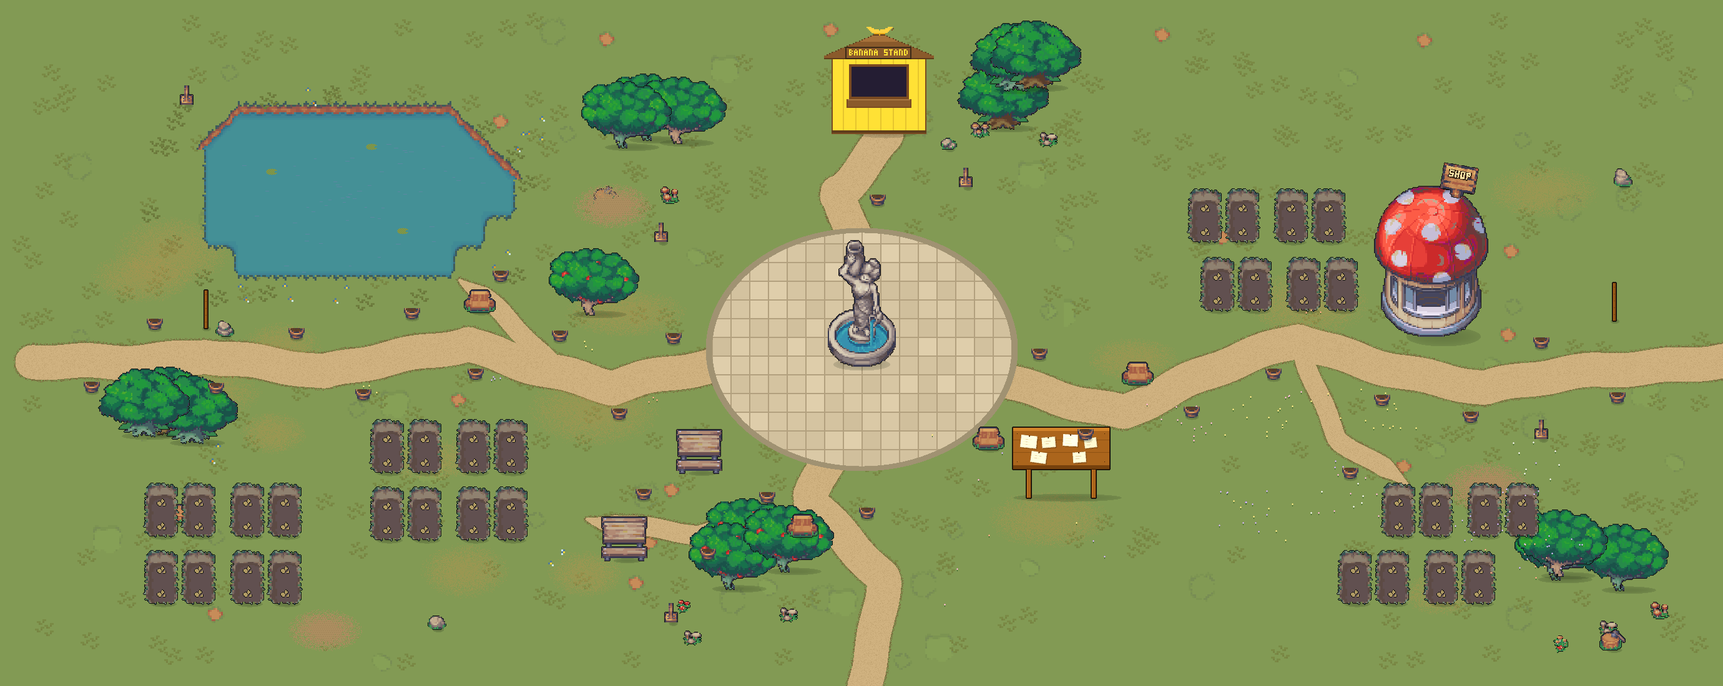
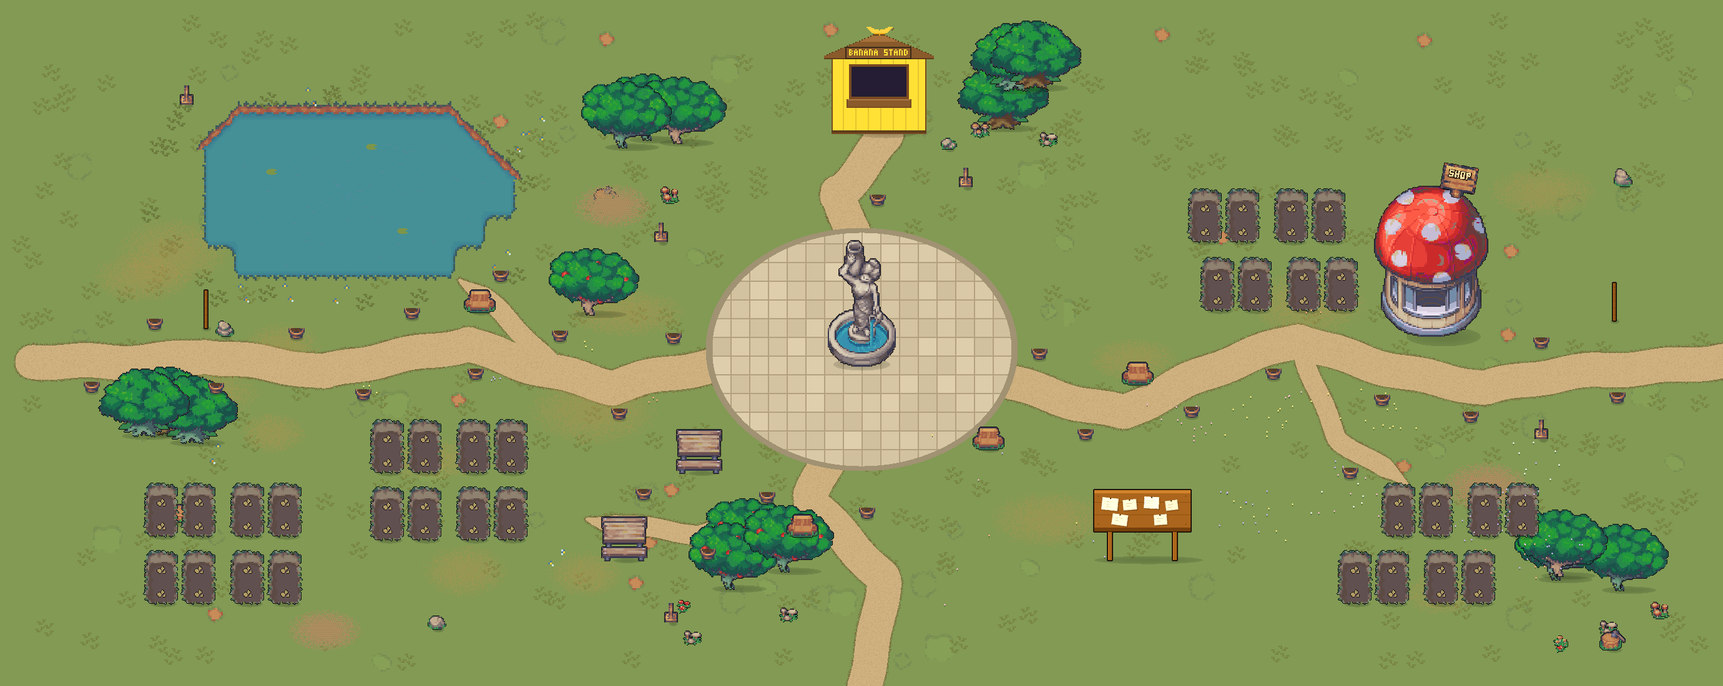
The board in the park is a board now too, and it stands on its own
We built the wall for /supporters/ and never brought it back into the
park, so tapping the board showed a list of names on a card that happened
to be about a board. The wall is a shared component now (.bb-wall in
plaques.css, worn by both) with a --sm variant for the popup: the same
timber, the same battens and screws, a closer crop.

The list is capped at five, best metal first, so what you see without
scrolling is the top of the ladder -- and everybody now gets a route to
the whole thing. A member used to get a door to their own membership and
no way from the park to the wall they are on.

⚠ Getting it to FIT took three attempts and the first two were wrong:
- capping the wall's height left the CARD scrolling as well, so the way
  out sat below the fold on a 740px phone
- making the card a flex column does not fix that either, because the
  card's flex child is #pkSupBody, not the wall
So the wall does not scroll at all: the card is the one scroller, the
list is short, the count merged into the link (the number is the better
half of "5 more" + "see the whole board"), and a max-HEIGHT query trims
the spotlight on short phones. Measured: nothing scrolls at 360x740 or
393x850, and the link is on screen at both.

The board itself moves south-east, 247 right and 178 down from Old Peel's
bench instead of 117 and 78 -- it was leaning on him.

Changed region(s): [[0.5609, 0.6182, 0.7167, 0.8345]]

diff --git a/src/scripts/park-geo.js b/src/scripts/park-geo.js
@@ -10,7 +10,7 @@ export const MARKET = { stand: [1408, 215], cart: [2300, 545] };
 export const SIGNS = [];
 export const ROAD_SIGN = { x: 2586, y: 516 };
 export const ROAD_SIGN_W = { x: 330, y: 528 };
-export const SUP_BOARD = { x: 1700, y: 800 };
+export const SUP_BOARD = { x: 1830, y: 900 };
 export const OLDBENCH = [1583, 722];
 export const MEADOW = [1860, 640, 2500, 940];
 export const PLOTS = [[2240, 800], [2240, 838], [2300, 800], [2300, 838], [2378, 800], [2378, 838], [2438, 800], [2438, 838], [258, 800], [258, 838], [318, 800], [318, 838], [396, 800], [396, 838], [456, 800], [456, 838], [1950, 438], [1950, 476], [2010, 438], [2010, 476], [2088, 438], [2088, 476], [2148, 438], [2148, 476], [2170, 908], [2170, 946], [2230, 908], [2230, 946], [2308, 908], [2308, 946], [2368, 908], [2368, 946], [258, 908], [258, 946], [318, 908], [318, 946], [396, 908], [396, 946], [456, 908], [456, 946], [1930, 328], [1930, 366], [1990, 328], [1990, 366], [2068, 328], [2068, 366], [2128, 328], [2128, 366], [620, 698], [620, 736], [680, 698], [680, 736], [758, 698], [758, 736], [818, 698], [818, 736], [620, 806], [620, 844], [680, 806], [680, 844], [758, 806], [758, 844], [818, 806], [818, 844], [1790, 170], [1790, 208], [1850, 170], [1850, 208], [1928, 170], [1928, 208], [1988, 170], [1988, 208], [2110, 170], [2110, 208], [2170, 170], [2170, 208], [2248, 170], [2248, 208], [2308, 170], [2308, 208], [2420, 170], [2420, 208], [2480, 170], [2480, 208], [2558, 170], [2558, 208], [2618, 170], [2618, 208], [1870, 780], [1870, 818], [1930, 780], [1930, 818], [2008, 780], [2008, 818], [2068, 780], [2068, 818], [1550, 830], [1550, 868], [1610, 830], [1610, 868], [1688, 830], [1688, 868], [1748, 830], [1748, 868]];
@@ -23,8 +23,8 @@ export const ALGAE_SPOTS = [[380, 241], [472, 241], [518, 241], [656, 241], [702
 export const BIRD_SPOTS = [[1060, 390], [1548, 302], [1076, 1000], [2470, 706], [300, 170]];
 export const BIRD_SPECIES = ['blue-jay','cardinal','cedar-waxwing','chickadee','crow','house-finch','hummingbird','magpie','red-robin','stellers-jay','white-dove','wood-thrush'];
 export const DOORS = { south: { x: 1380, y: 1060 }, east: { x: 2700, y: 560 }, west: { x: 60, y: 585 } };
-export const OB_RECTS = [[257, 662, 283, 698], [294, 676, 320, 712], [217, 665, 243, 701], [1029, 190, 1055, 226], [1078, 195, 1104, 231], [990, 202, 1016, 238], [1188, 871, 1214, 907], [1162, 910, 1188, 946], [1250, 882, 1276, 918], [1593, 172, 1619, 208], [1613, 111, 1639, 147], [1645, 107, 1671, 143], [2587, 912, 2613, 948], [2485, 895, 2511, 931], [2490, 889, 2516, 925], [938, 470, 964, 506], [1324, 159, 1492, 221], [2200, 487, 2400, 551], [2212, 812, 2268, 866], [2272, 812, 2328, 866], [2350, 812, 2406, 866], [2410, 812, 2466, 866], [230, 812, 286, 866], [290, 812, 346, 866], [368, 812, 424, 866], [428, 812, 484, 866], [1922, 450, 1978, 504], [1982, 450, 2038, 504], [2060, 450, 2116, 504], [2120, 450, 2176, 504], [2142, 920, 2198, 974], [2202, 920, 2258, 974], [2280, 920, 2336, 974], [2340, 920, 2396, 974], [230, 920, 286, 974], [290, 920, 346, 974], [368, 920, 424, 974], [428, 920, 484, 974], [1902, 340, 1958, 394], [1962, 340, 2018, 394], [2040, 340, 2096, 394], [2100, 340, 2156, 394], [592, 710, 648, 764], [652, 710, 708, 764], [730, 710, 786, 764], [790, 710, 846, 764], [592, 818, 648, 872], [652, 818, 708, 872], [730, 818, 786, 872], [790, 818, 846, 872], [1076, 730, 1164, 766], [956, 870, 1044, 906], [734, 484, 802, 506], [1788, 600, 1856, 622], [1251, 844, 1319, 866], [1549, 704, 1617, 726], [1628, 784, 1772, 804]];
+export const OB_RECTS = [[257, 662, 283, 698], [294, 676, 320, 712], [217, 665, 243, 701], [1029, 190, 1055, 226], [1078, 195, 1104, 231], [990, 202, 1016, 238], [1188, 871, 1214, 907], [1162, 910, 1188, 946], [1250, 882, 1276, 918], [1593, 172, 1619, 208], [1613, 111, 1639, 147], [1645, 107, 1671, 143], [2587, 912, 2613, 948], [2485, 895, 2511, 931], [2490, 889, 2516, 925], [938, 470, 964, 506], [1324, 159, 1492, 221], [2200, 487, 2400, 551], [2212, 812, 2268, 866], [2272, 812, 2328, 866], [2350, 812, 2406, 866], [2410, 812, 2466, 866], [230, 812, 286, 866], [290, 812, 346, 866], [368, 812, 424, 866], [428, 812, 484, 866], [1922, 450, 1978, 504], [1982, 450, 2038, 504], [2060, 450, 2116, 504], [2120, 450, 2176, 504], [2142, 920, 2198, 974], [2202, 920, 2258, 974], [2280, 920, 2336, 974], [2340, 920, 2396, 974], [230, 920, 286, 974], [290, 920, 346, 974], [368, 920, 424, 974], [428, 920, 484, 974], [1902, 340, 1958, 394], [1962, 340, 2018, 394], [2040, 340, 2096, 394], [2100, 340, 2156, 394], [592, 710, 648, 764], [652, 710, 708, 764], [730, 710, 786, 764], [790, 710, 846, 764], [592, 818, 648, 872], [652, 818, 708, 872], [730, 818, 786, 872], [790, 818, 846, 872], [1076, 730, 1164, 766], [956, 870, 1044, 906], [734, 484, 802, 506], [1788, 600, 1856, 622], [1251, 844, 1319, 866], [1549, 704, 1617, 726], [1758, 884, 1902, 904]];
 export const OB_CIRCLES = [[970, 332, 20], [2583, 1043, 20], [292, 838, 20], [1380, 570, 39], [360, 540, 20], [2600, 300, 20], [1520, 240, 20], [700, 1010, 20], [2586, 516, 8], [330, 528, 8], [1060, 390, 12], [1548, 302, 12], [1076, 1000, 12], [2470, 706, 12], [300, 170, 12]];
-export const OVERLAYS = [['ov-0.png', 197, 588, 147, 110, 698], ['ov-1.png', 234, 602, 147, 110, 712], ['ov-2.png', 157, 591, 147, 110, 701], ['ov-3.png', 970, 118, 145, 108, 226], ['ov-4.png', 1019, 123, 145, 108, 231], ['ov-5.png', 931, 130, 145, 108, 238], ['ov-6.png', 1129, 799, 145, 108, 907], ['ov-7.png', 1103, 838, 145, 108, 946], ['ov-8.png', 1191, 810, 145, 108, 918], ['ov-9.png', 1533, 98, 147, 110, 208], ['ov-10.png', 1553, 37, 147, 110, 147], ['ov-11.png', 1585, 33, 147, 110, 143], ['ov-12.png', 2528, 840, 145, 108, 948], ['ov-13.png', 2426, 823, 145, 108, 931], ['ov-14.png', 2431, 817, 145, 108, 925], ['ov-15.png', 879, 398, 145, 108, 506], ['ov-16.png', 1320, 43, 176, 172, 215], ['ov-17.png', 2201, 260, 199, 285, 545], ['ov-18.png', 1083, 688, 74, 72, 760], ['ov-19.png', 963, 828, 74, 72, 900], ['ov-20.png', 2582, 452, 8, 64, 516], ['ov-21.png', 326, 464, 8, 64, 528], ['ov-22.png', 1621, 684, 158, 116, 800]];
+export const OVERLAYS = [['ov-0.png', 197, 588, 147, 110, 698], ['ov-1.png', 234, 602, 147, 110, 712], ['ov-2.png', 157, 591, 147, 110, 701], ['ov-3.png', 970, 118, 145, 108, 226], ['ov-4.png', 1019, 123, 145, 108, 231], ['ov-5.png', 931, 130, 145, 108, 238], ['ov-6.png', 1129, 799, 145, 108, 907], ['ov-7.png', 1103, 838, 145, 108, 946], ['ov-8.png', 1191, 810, 145, 108, 918], ['ov-9.png', 1533, 98, 147, 110, 208], ['ov-10.png', 1553, 37, 147, 110, 147], ['ov-11.png', 1585, 33, 147, 110, 143], ['ov-12.png', 2528, 840, 145, 108, 948], ['ov-13.png', 2426, 823, 145, 108, 931], ['ov-14.png', 2431, 817, 145, 108, 925], ['ov-15.png', 879, 398, 145, 108, 506], ['ov-16.png', 1320, 43, 176, 172, 215], ['ov-17.png', 2201, 260, 199, 285, 545], ['ov-18.png', 1083, 688, 74, 72, 760], ['ov-19.png', 963, 828, 74, 72, 900], ['ov-20.png', 2582, 452, 8, 64, 516], ['ov-21.png', 326, 464, 8, 64, 528], ['ov-22.png', 1751, 784, 158, 116, 900]];
 export const TREE_OVS = [0, 1, 2, 3, 4, 5, 6, 7, 8, 9, 10, 11, 12, 13, 14, 15];
-export const WEED_GRID = [[120,120],[168,120],[216,120],[264,120],[312,120],[360,120],[408,120],[456,120],[648,120],[696,120],[744,120],[792,120],[840,120],[888,120],[936,120],[984,120],[1032,120],[1080,120],[1128,120],[1176,120],[1224,120],[1272,120],[1320,120],[1464,120],[1512,120],[1560,120],[1704,120],[2040,120],[120,168],[168,168],[216,168],[264,168],[792,168],[840,168],[888,168],[936,168],[984,168],[1032,168],[1080,168],[1128,168],[1176,168],[1224,168],[1272,168],[1512,168],[1560,168],[1656,168],[1704,168],[2040,168],[120,216],[168,216],[216,216],[264,216],[840,216],[888,216],[936,216],[1128,216],[1176,216],[1224,216],[1272,216],[1560,216],[1656,216],[1704,216],[2040,216],[120,264],[168,264],[216,264],[888,264],[936,264],[984,264],[1032,264],[1080,264],[1128,264],[1176,264],[1224,264],[1272,264],[1464,264],[1560,264],[1608,264],[1656,264],[1704,264],[1752,264],[1800,264],[1848,264],[1896,264],[1944,264],[1992,264],[2040,264],[2088,264],[2136,264],[2184,264],[2232,264],[2280,264],[2328,264],[2376,264],[2424,264],[2472,264],[2520,264],[2568,264],[2616,264],[120,312],[168,312],[216,312],[888,312],[936,312],[1032,312],[1080,312],[1128,312],[1176,312],[1224,312],[1272,312],[1464,312],[1512,312],[1608,312],[1656,312],[1704,312],[1752,312],[1800,312],[1848,312],[2232,312],[2280,312],[2328,312],[2376,312],[2424,312],[2472,312],[2520,312],[120,360],[168,360],[216,360],[888,360],[936,360],[1032,360],[1080,360],[1128,360],[1176,360],[1224,360],[1560,360],[1608,360],[1656,360],[1704,360],[1752,360],[1800,360],[1848,360],[2232,360],[2280,360],[2328,360],[2376,360],[2424,360],[2472,360],[2520,360],[2568,360],[2616,360],[120,408],[168,408],[216,408],[264,408],[840,408],[888,408],[936,408],[984,408],[1032,408],[1128,408],[1608,408],[1656,408],[1704,408],[1752,408],[1800,408],[1848,408],[2232,408],[2280,408],[2328,408],[2376,408],[2424,408],[2472,408],[2520,408],[2568,408],[2616,408],[120,456],[168,456],[216,456],[264,456],[312,456],[888,456],[984,456],[1032,456],[1080,456],[1656,456],[1704,456],[1752,456],[1800,456],[1848,456],[2232,456],[2280,456],[2328,456],[2376,456],[2424,456],[2472,456],[2520,456],[2568,456],[2616,456],[120,504],[168,504],[312,504],[360,504],[408,504],[888,504],[984,504],[1032,504],[1080,504],[1704,504],[1752,504],[1800,504],[1848,504],[2424,504],[2472,504],[2520,504],[2616,504],[984,552],[1704,552],[1752,552],[1800,552],[1848,552],[2424,552],[216,648],[408,648],[456,648],[1992,648],[2040,648],[120,696],[168,696],[360,696],[408,696],[456,696],[504,696],[552,696],[888,696],[936,696],[1032,696],[1080,696],[1128,696],[1656,696],[1944,696],[1992,696],[2040,696],[2232,696],[2280,696],[2424,696],[2520,696],[2568,696],[2616,696],[120,744],[168,744],[216,744],[264,744],[312,744],[360,744],[408,744],[456,744],[504,744],[552,744],[888,744],[936,744],[984,744],[1032,744],[1608,744],[1656,744],[1704,744],[1752,744],[1800,744],[2280,744],[2328,744],[2376,744],[2424,744],[2472,744],[2520,744],[2568,744],[2616,744],[120,792],[168,792],[552,792],[888,792],[936,792],[984,792],[1080,792],[1128,792],[1176,792],[1464,792],[1800,792],[2520,792],[2568,792],[2616,792],[120,840],[168,840],[552,840],[888,840],[1464,840],[1800,840],[2520,840],[2568,840],[2616,840],[120,888],[168,888],[552,888],[888,888],[936,888],[1800,888],[1848,888],[1896,888],[1944,888],[1992,888],[2040,888],[2088,888],[2568,888],[2616,888],[120,936],[168,936],[552,936],[600,936],[648,936],[696,936],[744,936],[792,936],[840,936],[888,936],[936,936],[984,936],[1032,936],[1080,936],[1128,936],[1224,936],[1272,936],[1320,936],[1512,936],[1560,936],[1608,936],[1656,936],[1704,936],[1752,936],[1800,936],[1848,936],[1896,936],[1944,936],[1992,936],[2040,936],[2088,936],[2568,936]];
+export const WEED_GRID = [[120,120],[168,120],[216,120],[264,120],[312,120],[360,120],[408,120],[456,120],[648,120],[696,120],[744,120],[792,120],[840,120],[888,120],[936,120],[984,120],[1032,120],[1080,120],[1128,120],[1176,120],[1224,120],[1272,120],[1320,120],[1464,120],[1512,120],[1560,120],[1704,120],[2040,120],[120,168],[168,168],[216,168],[264,168],[792,168],[840,168],[888,168],[936,168],[984,168],[1032,168],[1080,168],[1128,168],[1176,168],[1224,168],[1272,168],[1512,168],[1560,168],[1656,168],[1704,168],[2040,168],[120,216],[168,216],[216,216],[264,216],[840,216],[888,216],[936,216],[1128,216],[1176,216],[1224,216],[1272,216],[1560,216],[1656,216],[1704,216],[2040,216],[120,264],[168,264],[216,264],[888,264],[936,264],[984,264],[1032,264],[1080,264],[1128,264],[1176,264],[1224,264],[1272,264],[1464,264],[1560,264],[1608,264],[1656,264],[1704,264],[1752,264],[1800,264],[1848,264],[1896,264],[1944,264],[1992,264],[2040,264],[2088,264],[2136,264],[2184,264],[2232,264],[2280,264],[2328,264],[2376,264],[2424,264],[2472,264],[2520,264],[2568,264],[2616,264],[120,312],[168,312],[216,312],[888,312],[936,312],[1032,312],[1080,312],[1128,312],[1176,312],[1224,312],[1272,312],[1464,312],[1512,312],[1608,312],[1656,312],[1704,312],[1752,312],[1800,312],[1848,312],[2232,312],[2280,312],[2328,312],[2376,312],[2424,312],[2472,312],[2520,312],[120,360],[168,360],[216,360],[888,360],[936,360],[1032,360],[1080,360],[1128,360],[1176,360],[1224,360],[1560,360],[1608,360],[1656,360],[1704,360],[1752,360],[1800,360],[1848,360],[2232,360],[2280,360],[2328,360],[2376,360],[2424,360],[2472,360],[2520,360],[2568,360],[2616,360],[120,408],[168,408],[216,408],[264,408],[840,408],[888,408],[936,408],[984,408],[1032,408],[1128,408],[1608,408],[1656,408],[1704,408],[1752,408],[1800,408],[1848,408],[2232,408],[2280,408],[2328,408],[2376,408],[2424,408],[2472,408],[2520,408],[2568,408],[2616,408],[120,456],[168,456],[216,456],[264,456],[312,456],[888,456],[984,456],[1032,456],[1080,456],[1656,456],[1704,456],[1752,456],[1800,456],[1848,456],[2232,456],[2280,456],[2328,456],[2376,456],[2424,456],[2472,456],[2520,456],[2568,456],[2616,456],[120,504],[168,504],[312,504],[360,504],[408,504],[888,504],[984,504],[1032,504],[1080,504],[1704,504],[1752,504],[1800,504],[1848,504],[2424,504],[2472,504],[2520,504],[2616,504],[984,552],[1704,552],[1752,552],[1800,552],[1848,552],[2424,552],[216,648],[408,648],[456,648],[1992,648],[2040,648],[120,696],[168,696],[360,696],[408,696],[456,696],[504,696],[552,696],[888,696],[936,696],[1032,696],[1080,696],[1128,696],[1656,696],[1944,696],[1992,696],[2040,696],[2232,696],[2280,696],[2424,696],[2520,696],[2568,696],[2616,696],[120,744],[168,744],[216,744],[264,744],[312,744],[360,744],[408,744],[456,744],[504,744],[552,744],[888,744],[936,744],[984,744],[1032,744],[1608,744],[1656,744],[1704,744],[1752,744],[1800,744],[2280,744],[2328,744],[2376,744],[2424,744],[2472,744],[2520,744],[2568,744],[2616,744],[120,792],[168,792],[552,792],[888,792],[936,792],[984,792],[1080,792],[1128,792],[1176,792],[1464,792],[1800,792],[2520,792],[2568,792],[2616,792],[120,840],[168,840],[552,840],[888,840],[1464,840],[1800,840],[2520,840],[2568,840],[2616,840],[120,888],[168,888],[552,888],[888,888],[936,888],[1944,888],[1992,888],[2040,888],[2088,888],[2568,888],[2616,888],[120,936],[168,936],[552,936],[600,936],[648,936],[696,936],[744,936],[792,936],[840,936],[888,936],[936,936],[984,936],[1032,936],[1080,936],[1128,936],[1224,936],[1272,936],[1320,936],[1512,936],[1560,936],[1608,936],[1656,936],[1704,936],[1752,936],[1800,936],[1848,936],[1896,936],[1944,936],[1992,936],[2040,936],[2088,936],[2568,936]];

diff --git a/worker-rave/src/park-weed-grid.js b/worker-rave/src/park-weed-grid.js
@@ -1,6 +1,6 @@
 // GENERATED by tools/build-park-scene.py — the park weed lattice.
 // DO NOT EDIT (twin of WEED_GRID in src/scripts/park-geo.js).
-export const WEED_GRID = [[120,120],[168,120],[216,120],[264,120],[312,120],[360,120],[408,120],[456,120],[648,120],[696,120],[744,120],[792,120],[840,120],[888,120],[936,120],[984,120],[1032,120],[1080,120],[1128,120],[1176,120],[1224,120],[1272,120],[1320,120],[1464,120],[1512,120],[1560,120],[1704,120],[2040,120],[120,168],[168,168],[216,168],[264,168],[792,168],[840,168],[888,168],[936,168],[984,168],[1032,168],[1080,168],[1128,168],[1176,168],[1224,168],[1272,168],[1512,168],[1560,168],[1656,168],[1704,168],[2040,168],[120,216],[168,216],[216,216],[264,216],[840,216],[888,216],[936,216],[1128,216],[1176,216],[1224,216],[1272,216],[1560,216],[1656,216],[1704,216],[2040,216],[120,264],[168,264],[216,264],[888,264],[936,264],[984,264],[1032,264],[1080,264],[1128,264],[1176,264],[1224,264],[1272,264],[1464,264],[1560,264],[1608,264],[1656,264],[1704,264],[1752,264],[1800,264],[1848,264],[1896,264],[1944,264],[1992,264],[2040,264],[2088,264],[2136,264],[2184,264],[2232,264],[2280,264],[2328,264],[2376,264],[2424,264],[2472,264],[2520,264],[2568,264],[2616,264],[120,312],[168,312],[216,312],[888,312],[936,312],[1032,312],[1080,312],[1128,312],[1176,312],[1224,312],[1272,312],[1464,312],[1512,312],[1608,312],[1656,312],[1704,312],[1752,312],[1800,312],[1848,312],[2232,312],[2280,312],[2328,312],[2376,312],[2424,312],[2472,312],[2520,312],[120,360],[168,360],[216,360],[888,360],[936,360],[1032,360],[1080,360],[1128,360],[1176,360],[1224,360],[1560,360],[1608,360],[1656,360],[1704,360],[1752,360],[1800,360],[1848,360],[2232,360],[2280,360],[2328,360],[2376,360],[2424,360],[2472,360],[2520,360],[2568,360],[2616,360],[120,408],[168,408],[216,408],[264,408],[840,408],[888,408],[936,408],[984,408],[1032,408],[1128,408],[1608,408],[1656,408],[1704,408],[1752,408],[1800,408],[1848,408],[2232,408],[2280,408],[2328,408],[2376,408],[2424,408],[2472,408],[2520,408],[2568,408],[2616,408],[120,456],[168,456],[216,456],[264,456],[312,456],[888,456],[984,456],[1032,456],[1080,456],[1656,456],[1704,456],[1752,456],[1800,456],[1848,456],[2232,456],[2280,456],[2328,456],[2376,456],[2424,456],[2472,456],[2520,456],[2568,456],[2616,456],[120,504],[168,504],[312,504],[360,504],[408,504],[888,504],[984,504],[1032,504],[1080,504],[1704,504],[1752,504],[1800,504],[1848,504],[2424,504],[2472,504],[2520,504],[2616,504],[984,552],[1704,552],[1752,552],[1800,552],[1848,552],[2424,552],[216,648],[408,648],[456,648],[1992,648],[2040,648],[120,696],[168,696],[360,696],[408,696],[456,696],[504,696],[552,696],[888,696],[936,696],[1032,696],[1080,696],[1128,696],[1656,696],[1944,696],[1992,696],[2040,696],[2232,696],[2280,696],[2424,696],[2520,696],[2568,696],[2616,696],[120,744],[168,744],[216,744],[264,744],[312,744],[360,744],[408,744],[456,744],[504,744],[552,744],[888,744],[936,744],[984,744],[1032,744],[1608,744],[1656,744],[1704,744],[1752,744],[1800,744],[2280,744],[2328,744],[2376,744],[2424,744],[2472,744],[2520,744],[2568,744],[2616,744],[120,792],[168,792],[552,792],[888,792],[936,792],[984,792],[1080,792],[1128,792],[1176,792],[1464,792],[1800,792],[2520,792],[2568,792],[2616,792],[120,840],[168,840],[552,840],[888,840],[1464,840],[1800,840],[2520,840],[2568,840],[2616,840],[120,888],[168,888],[552,888],[888,888],[936,888],[1800,888],[1848,888],[1896,888],[1944,888],[1992,888],[2040,888],[2088,888],[2568,888],[2616,888],[120,936],[168,936],[552,936],[600,936],[648,936],[696,936],[744,936],[792,936],[840,936],[888,936],[936,936],[984,936],[1032,936],[1080,936],[1128,936],[1224,936],[1272,936],[1320,936],[1512,936],[1560,936],[1608,936],[1656,936],[1704,936],[1752,936],[1800,936],[1848,936],[1896,936],[1944,936],[1992,936],[2040,936],[2088,936],[2568,936]];
+export const WEED_GRID = [[120,120],[168,120],[216,120],[264,120],[312,120],[360,120],[408,120],[456,120],[648,120],[696,120],[744,120],[792,120],[840,120],[888,120],[936,120],[984,120],[1032,120],[1080,120],[1128,120],[1176,120],[1224,120],[1272,120],[1320,120],[1464,120],[1512,120],[1560,120],[1704,120],[2040,120],[120,168],[168,168],[216,168],[264,168],[792,168],[840,168],[888,168],[936,168],[984,168],[1032,168],[1080,168],[1128,168],[1176,168],[1224,168],[1272,168],[1512,168],[1560,168],[1656,168],[1704,168],[2040,168],[120,216],[168,216],[216,216],[264,216],[840,216],[888,216],[936,216],[1128,216],[1176,216],[1224,216],[1272,216],[1560,216],[1656,216],[1704,216],[2040,216],[120,264],[168,264],[216,264],[888,264],[936,264],[984,264],[1032,264],[1080,264],[1128,264],[1176,264],[1224,264],[1272,264],[1464,264],[1560,264],[1608,264],[1656,264],[1704,264],[1752,264],[1800,264],[1848,264],[1896,264],[1944,264],[1992,264],[2040,264],[2088,264],[2136,264],[2184,264],[2232,264],[2280,264],[2328,264],[2376,264],[2424,264],[2472,264],[2520,264],[2568,264],[2616,264],[120,312],[168,312],[216,312],[888,312],[936,312],[1032,312],[1080,312],[1128,312],[1176,312],[1224,312],[1272,312],[1464,312],[1512,312],[1608,312],[1656,312],[1704,312],[1752,312],[1800,312],[1848,312],[2232,312],[2280,312],[2328,312],[2376,312],[2424,312],[2472,312],[2520,312],[120,360],[168,360],[216,360],[888,360],[936,360],[1032,360],[1080,360],[1128,360],[1176,360],[1224,360],[1560,360],[1608,360],[1656,360],[1704,360],[1752,360],[1800,360],[1848,360],[2232,360],[2280,360],[2328,360],[2376,360],[2424,360],[2472,360],[2520,360],[2568,360],[2616,360],[120,408],[168,408],[216,408],[264,408],[840,408],[888,408],[936,408],[984,408],[1032,408],[1128,408],[1608,408],[1656,408],[1704,408],[1752,408],[1800,408],[1848,408],[2232,408],[2280,408],[2328,408],[2376,408],[2424,408],[2472,408],[2520,408],[2568,408],[2616,408],[120,456],[168,456],[216,456],[264,456],[312,456],[888,456],[984,456],[1032,456],[1080,456],[1656,456],[1704,456],[1752,456],[1800,456],[1848,456],[2232,456],[2280,456],[2328,456],[2376,456],[2424,456],[2472,456],[2520,456],[2568,456],[2616,456],[120,504],[168,504],[312,504],[360,504],[408,504],[888,504],[984,504],[1032,504],[1080,504],[1704,504],[1752,504],[1800,504],[1848,504],[2424,504],[2472,504],[2520,504],[2616,504],[984,552],[1704,552],[1752,552],[1800,552],[1848,552],[2424,552],[216,648],[408,648],[456,648],[1992,648],[2040,648],[120,696],[168,696],[360,696],[408,696],[456,696],[504,696],[552,696],[888,696],[936,696],[1032,696],[1080,696],[1128,696],[1656,696],[1944,696],[1992,696],[2040,696],[2232,696],[2280,696],[2424,696],[2520,696],[2568,696],[2616,696],[120,744],[168,744],[216,744],[264,744],[312,744],[360,744],[408,744],[456,744],[504,744],[552,744],[888,744],[936,744],[984,744],[1032,744],[1608,744],[1656,744],[1704,744],[1752,744],[1800,744],[2280,744],[2328,744],[2376,744],[2424,744],[2472,744],[2520,744],[2568,744],[2616,744],[120,792],[168,792],[552,792],[888,792],[936,792],[984,792],[1080,792],[1128,792],[1176,792],[1464,792],[1800,792],[2520,792],[2568,792],[2616,792],[120,840],[168,840],[552,840],[888,840],[1464,840],[1800,840],[2520,840],[2568,840],[2616,840],[120,888],[168,888],[552,888],[888,888],[936,888],[1944,888],[1992,888],[2040,888],[2088,888],[2568,888],[2616,888],[120,936],[168,936],[552,936],[600,936],[648,936],[696,936],[744,936],[792,936],[840,936],[888,936],[936,936],[984,936],[1032,936],[1080,936],[1128,936],[1224,936],[1272,936],[1320,936],[1512,936],[1560,936],[1608,936],[1656,936],[1704,936],[1752,936],[1800,936],[1848,936],[1896,936],[1944,936],[1992,936],[2040,936],[2088,936],[2568,936]];
 export const BORDER_SPOTS_N = 25;
 export const ALGAE_SPOTS = [[380,241],[472,241],[518,241],[656,241],[702,241],[380,281],[472,281],[518,281],[564,281],[610,281],[656,281],[702,281],[748,281],[380,321],[426,321],[472,321],[518,321],[564,321],[610,321],[656,321],[702,321],[748,321],[380,361],[426,361],[472,361],[518,361],[564,361],[610,361],[702,361],[748,361],[426,401],[472,401],[518,401],[564,401],[610,401],[702,401]];
 export const BIRD_SPOTS_N = 5;

diff --git a/public/css/plaques.css b/public/css/plaques.css
@@ -70,3 +70,91 @@
 .bb-plaqg--silver .bb-plaqg__k { color: #dfe5ec; }
 .bb-plaqg--blue .bb-plaqg__k { color: #8fb0f7; }
 .bb-plaqg--coffee .bb-plaqg__k { color: #cbc0a5; }
+
+/* ───────────────────────────────────────────────────────────────────────────
+   🪵 THE WALL — the boards the plaques hang on. Art: tools/build-wall.py.
+   Worn by /supporters/ and by the park's board popup, so it lives here.
+   ⚠ A wall needs an EDGE. Without the border and hard shadow it does not
+   read as an object, it just stops. */
+.bb-wall {
+  position: relative; padding: 48px 40px 51px; min-height: 260px;
+  background-image: url(/assets/supporters/wall-board.png);
+  background-repeat: repeat;
+  background-size: 288px 144px;
+  image-rendering: pixelated;
+  border: 3px solid #17120c;
+  box-shadow: inset 0 0 52px rgba(0, 0, 0, 0.42), 8px 8px 0 #000;
+}
+/* the battens, with the screws that would actually be fastening them.
+   ⚠ A 4-VALUE POSITION NEEDS A KEYWORD ON BOTH AXES: `12px bottom 30px` is
+   invalid, and ONE invalid entry drops the WHOLE list, silently. */
+.bb-wall::before, .bb-wall::after {
+  content: ''; position: absolute; left: 0; right: 0; height: 27px;
+  background-image:
+    url(/assets/supporters/wall-screw.png), url(/assets/supporters/wall-screw.png),
+    url(/assets/supporters/wall-rail.png);
+  background-position: left 14px center, right 14px center, 0 0;
+  background-repeat: no-repeat, no-repeat, repeat-x;
+  background-size: 24px 24px, 24px 24px, 288px 27px;
+  image-rendering: pixelated;
+}
+.bb-wall::before { top: 0; }
+.bb-wall::after { bottom: 0; transform: scaleY(-1); }
+
+/* 🪚 EVERY RANK GETS A SHELF. Each row of plaques ends well short of the
+   width; a groove cut across the FULL width turns that emptiness into room on
+   the rail rather than content that failed to fill its container. Deliberately
+   quieter than the battens so it does not become boxes inside boxes. */
+.bb-wall .bb-plaqg {
+  padding-bottom: 18px; margin-bottom: 20px;
+  border-bottom: 2px solid rgba(0, 0, 0, 0.6);
+  box-shadow: 0 2px 0 rgba(196, 172, 128, 0.16);
+}
+.bb-wall .bb-plaqg:last-child { padding-bottom: 0; margin-bottom: 0; border-bottom: 0; box-shadow: none; }
+
+/* ⚠ AT x2 THE PLAQUES READ AS FILTER CHIPS ON A TEXTURE. At x3 they are
+   objects somebody mounted. Whole step, so the pixels stay square. */
+.bb-wall .bb-plaq {
+  height: 45px; line-height: 45px; padding: 0 30px; margin: 0 11px 12px 0;
+  font-size: 0.95rem;
+  background-size: 36px 45px, 36px 45px, 12px 45px;
+  background-position: left top, right top, 36px top;
+  /* ⚠ WITH EVERY PLAQUE LIT, NOTHING IS LIT. The ambient per-tier glow comes
+     off on the wall and is given back only to the visitor's own. */
+  --pg: transparent;
+  filter: drop-shadow(3px 4px 0 rgba(0, 0, 0, 0.62));
+  max-width: 100%; overflow: hidden; text-overflow: ellipsis; white-space: nowrap;
+}
+.bb-wall .bb-plaq--me {
+  --pg: #fff6d8;
+  filter: drop-shadow(0 0 7px var(--pg)) drop-shadow(3px 4px 0 rgba(0, 0, 0, 0.62));
+}
+/* stencilled into the timber, not printed on it */
+.bb-wall .bb-plaqg__k {
+  color: #b9a37e !important; opacity: 1; font-size: 0.64rem;
+  text-shadow: 0 1px 0 rgba(0, 0, 0, 0.7);
+}
+.bb-wall .bb-empty { margin: 0; color: #cbbb9a; opacity: 0.9; font-size: 0.86rem; }
+
+/* 🪟 THE SMALL WALL — the same boards inside a popup, where there is no room
+   for 48px of padding and a 260px minimum. Same object, closer crop. */
+.bb-wall--sm {
+  padding: 24px 14px 26px; min-height: 0;
+  box-shadow: inset 0 0 34px rgba(0, 0, 0, 0.45), 4px 4px 0 #000;
+}
+.bb-wall--sm .bb-plaq {
+  height: 30px; line-height: 30px; padding: 0 22px; font-size: 0.8rem;
+  background-size: 24px 30px, 24px 30px, 8px 30px;
+  background-position: left top, right top, 24px top;
+  margin: 0 7px 8px 0;
+}
+.bb-wall--sm .bb-plaqg { padding-bottom: 12px; margin-bottom: 13px; }
+
+@media (max-width: 780px) {
+  .bb-wall { padding: 40px 1.1rem 42px; min-height: 200px; }
+  .bb-wall .bb-plaq {
+    height: 30px; line-height: 30px; padding: 0 22px; font-size: 0.8rem;
+    background-size: 24px 30px, 24px 30px, 8px 30px;
+    background-position: left top, right top, 24px top; margin: 0 7px 9px 0;
+  }
+}

diff --git a/src/scripts/banana-park.js b/src/scripts/banana-park.js
@@ -277,6 +277,7 @@ function init() {
     { t: 'sup-t1', k: 'blue', name: 'Friend of the Banana', many: 'Friends of the Banana' },
     { t: 'coffee', k: 'coffee', name: 'bought a coffee', many: 'Bought a coffee' },
   ];
+  const SUP_SHOW = 5;          // enough to show the ladder, short enough to read
   const supRank = (t) => SUP_ROWS.find((r) => r.t === (t || 'coffee')) || SUP_ROWS[3];
   // one name lifted each day, the same one for everybody — splitmix32 over the
   // UTC date, the world's own daily-pick shape
@@ -321,27 +322,43 @@ function init() {
         out += '<div class="pk-supstar"><p class="pk-supstar__k">today\'s supporter</p>'
           + supPlaque(star.n, sr, isMe(star.n)) + '</div>';
       }
-      // best metal first, alphabetical inside it, so anyone can find their own
-      // name — and each metal is its own cluster, separated by AIR. Grouping
-      // without headings: the gap says "these belong together" and nobody has
-      // to be told what FRIENDS means.
-      out += '<div class="pk-plaqs">' + SUP_ROWS.map((r) => {
-        const list = all.filter((m) => (m.t || 'coffee') === r.t).sort((a, b) => a.n.localeCompare(b.n));
-        return list.length
-          ? '<div class="bb-plaqg bb-plaqg--' + r.k + '"><p class="bb-plaqg__k">' + r.many + '</p>'
-            + list.map((m) => supPlaque(m.n, r, isMe(m.n))).join('') + '</div>'
-          : '';
-      }).join('') + '</div>';
-      out += '<p class="pk-supfoot">The whole world runs on these bananas 💛</p>';
+      // 🪵 THE SAME BOARDS THE PAGE HANGS — one shared layer (.bb-wall in
+      // plaques.css), so tapping the board in the park shows the board, not a
+      // list of names on a card that happens to be about a board.
+      // ⚠ CAPPED AND SCROLLED. The popup is a card in a game, not a page: the
+      // whole wall in here would push the way out below the fold. Best metal
+      // first, so what you see without scrolling is the top of the ladder.
+      const order = SUP_ROWS.map((r) => r.t);
+      const ranked = all.slice().sort((a, b) =>
+        order.indexOf(a.t || 'coffee') - order.indexOf(b.t || 'coffee') || a.n.localeCompare(b.n));
+      const shown = ranked.slice(0, SUP_SHOW);
+      out += '<div class="pk-supwall"><div class="bb-wall bb-wall--sm">'
+        + SUP_ROWS.map((r) => {
+          const list = shown.filter((m) => (m.t || 'coffee') === r.t);
+          return list.length
+            ? '<div class="bb-plaqg bb-plaqg--' + r.k + '"><p class="bb-plaqg__k">' + r.many + '</p>'
+              + list.map((m) => supPlaque(m.n, r, isMe(m.n))).join('') + '</div>'
+            : '';
+        }).join('') + '</div></div>';
     }
     // ⚠ don't sell the board to someone already nailed to it. A supporter gets
     // told they are up there and a quiet door to their own membership; the big
     // yellow button is for the people who are not.
     let mem = null;
     try { mem = JSON.parse(localStorage.getItem('bb-member') || 'null'); } catch (e) {}
-    out += (mem && +mem.until + 72 * 3600 * 1000 > Date.now())
+    const isMem = mem && +mem.until + 72 * 3600 * 1000 > Date.now();
+    // ⚠ EVERYBODY GETS A ROUTE TO THE WHOLE BOARD. A member used to get a door
+    // to their own membership and nothing else — no way from the park to the
+    // wall they are on.
+    out += isMem
       ? '<p class="pk-supmine">You are up there 💛 <a href="/pass/">your membership →</a></p>'
       : '<a class="pk-cta" href="/supporters/"><span class="pk-cta__verb">get on the board →</span></a>';
+    // the count IS the reason to tap — two lines saying nearly the same thing
+    // cost a line the card does not have, and the number is the better half
+    const hidden = all.length - Math.min(all.length, SUP_SHOW);
+    out += '<p class="pk-supsee"><a href="/supporters/">'
+      + (hidden ? hidden + ' more on the board — see them all →' : 'See the whole board →')
+      + '</a></p>';
     supBody.innerHTML = out;
   }
 

diff --git a/tools/build-park-scene.py b/tools/build-park-scene.py
@@ -1532,8 +1532,10 @@ if HAVE_PACK:
             s.alpha_composite(pim, (px * K, py * K))
         return blockify(s, factor=K, colors=14, alpha_thresh=0.4, trim=False)
 
-    # south-east of Old Peel's bench: a little below him, a little to the right
-    SUP_BOARD = (1700, 800)
+    # south-east of Old Peel's bench (1583, 722) — far enough that the two do
+    # not read as one arrangement. It was 117 right and 78 down and still felt
+    # like it was leaning on him (Trym); this is 247 right and 178 down.
+    SUP_BOARD = (1830, 900)
     _SUPB = '__supporters_board.png'
     _cache[(_SUPB, 1, 28, 0.0, 1.0, 1.0)] = build_supboard()
     place(_SUPB, SUP_BOARD[0], SUP_BOARD[1], scale=1.0, sh=0.55,
